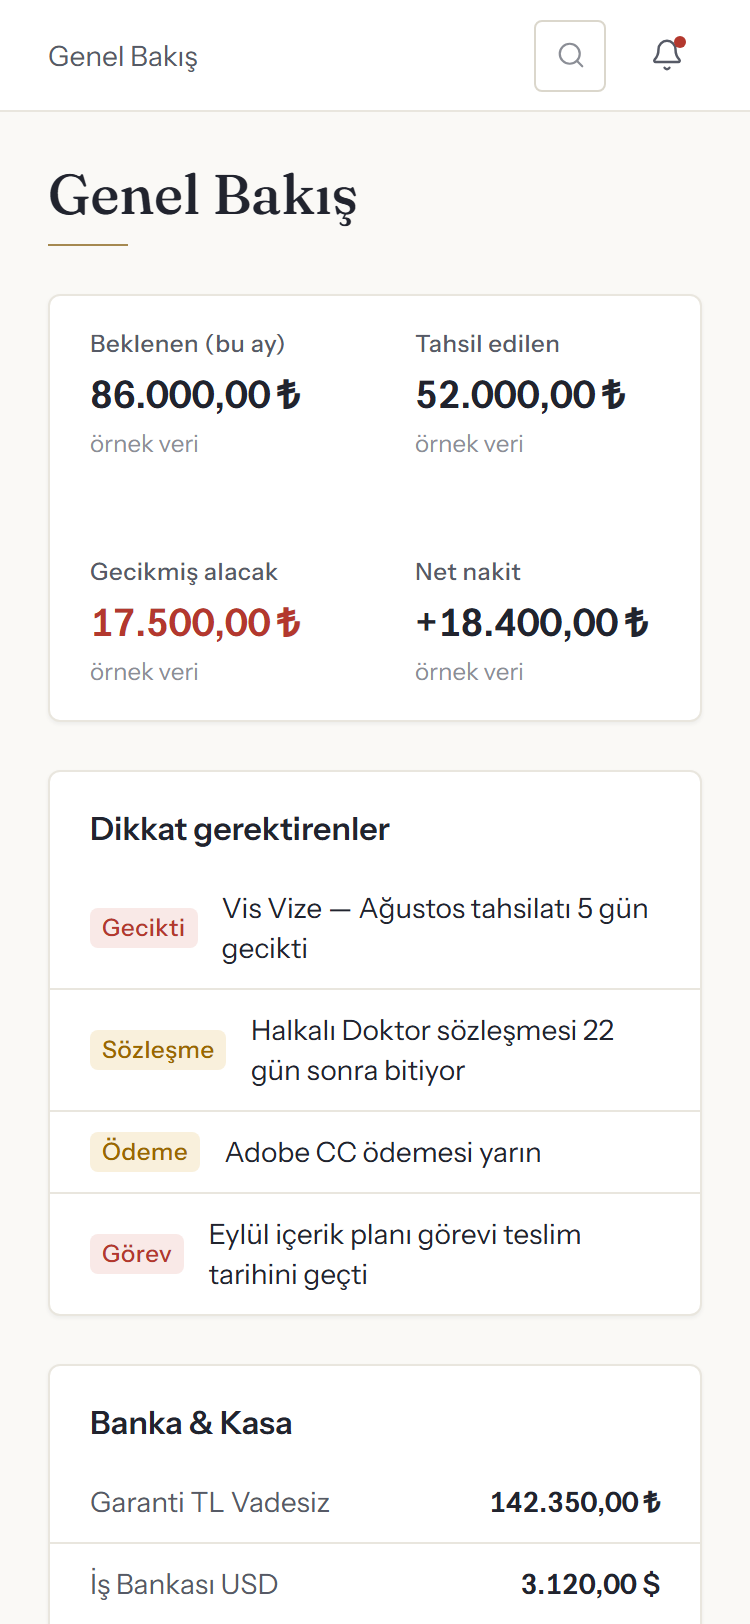
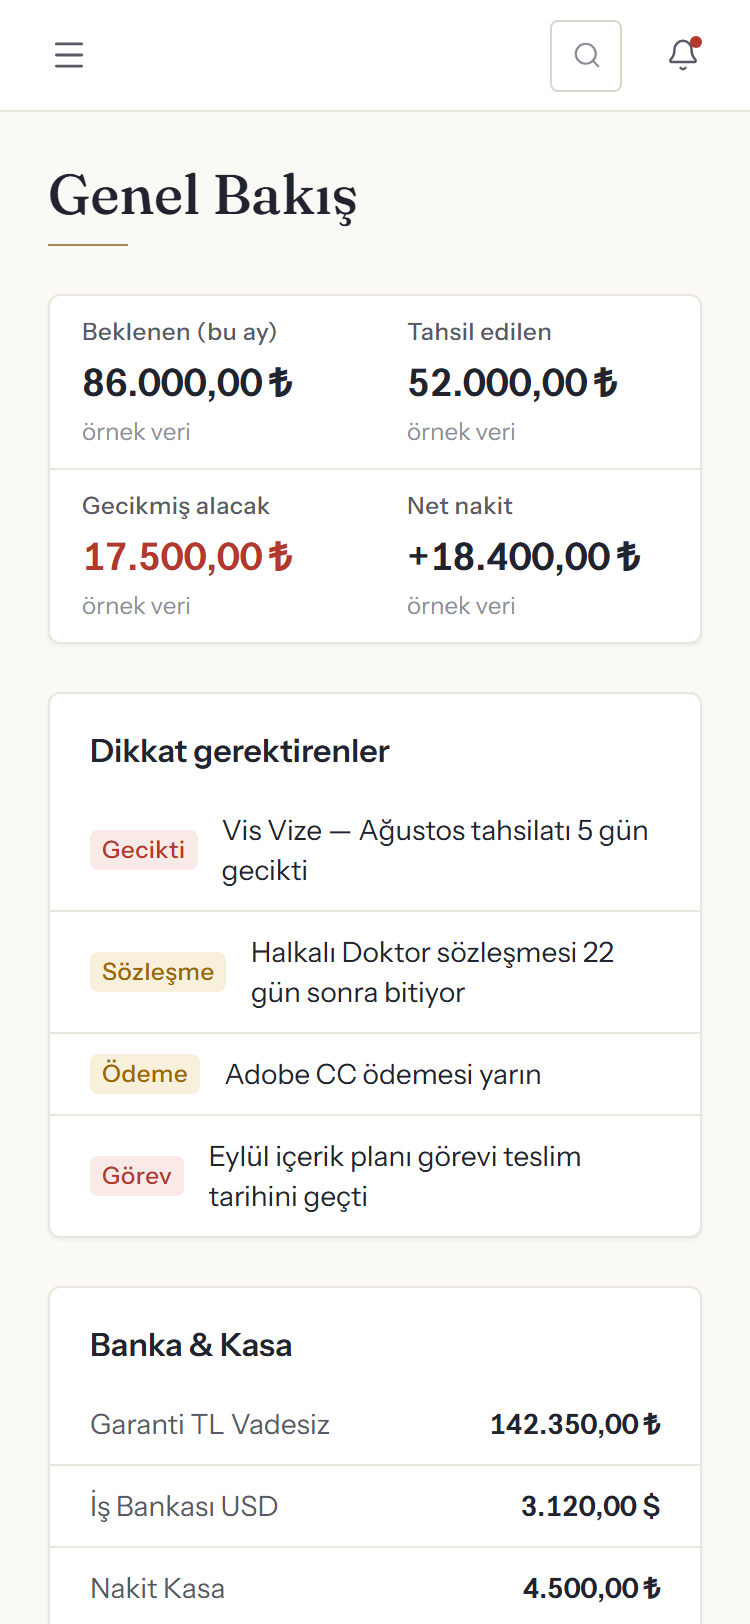
Mobil UI revizyonları ve Login/2FA wireframe'i
Sprint 0 görsel onayı sonrası istenen mobil düzeltmeler ve Sprint 1'in ilk
onay kapısı olan giriş akışı taslağı.

Mobil revizyonlar
- Metrik bloğu %18 kompaktlaştı (214px -> 175px): dikey padding düştü,
  satır arası boşluk yerine 1px yatay ayraç geldi. Tutar boyutu ve
  nowrap davranışı korundu.
- Mobil topbar artık [hamburger] ... [arama] [bildirim]; breadcrumb
  kaldırıldı (büyük sayfa başlığı zaten içerikte).
- "örnek veri" placeholder etiketleri yalnız development'ta render edilir.

Login / 2FA wireframe (/wireframe/giris)
- Statik görsel taslak: kimlik doğrulama mantığı veya Better Auth bağlantısı
  YOKTUR. Onaydan sonra gerçek /giris rotasına dönüşecek.
- Dört durum: giriş, giriş hatası (hangi alanın yanlış olduğu söylenmez),
  TOTP doğrulama, zorunlu 2FA kurulumu (kurtarma kodları indirilmeden
  tamamlanamaz).

Dokümantasyon
- 04: mobil drawer gereksinimleri Sprint 1'e, grafik placeholder'ının
  kaldırılması Sprint 6'ya bağlandı.
- 06: altın imza çizgisi kuralı netleşti (1px yükseklik, 32-48px genişlik,
  başlık boyunca asla uzanmaz).

diff --git a/src/app/wireframe/giris/page.tsx b/src/app/wireframe/giris/page.tsx
@@ -1,0 +1,212 @@
+/**
+ * GİRİŞ / 2FA — WIREFRAME (06 §16.1)
+ *
+ * Bu sayfa GÖRSEL ONAY İÇİN statik bir taslaktır. Kimlik doğrulama mantığı,
+ * form gönderimi veya Better Auth bağlantısı YOKTUR. Onaydan sonra Sprint 1'de
+ * gerçek /giris rotasına dönüşecektir.
+ *
+ * Dört durum tek sayfada üst üste gösterilir ki akış bir bakışta görülsün.
+ */
+import { Button } from "@/components/ui/button";
+
+function Shell({
+  step,
+  title,
+  children,
+}: {
+  step: string;
+  title: string;
+  children: React.ReactNode;
+}) {
+  return (
+    <div className="flex min-h-screen flex-col items-center justify-center bg-navy-900 px-4 py-10">
+      {/* Logo — altın imza (06 §3) */}
+      <div className="mb-6 flex items-baseline">
+        <span className="font-display text-2xl font-semibold tracking-wide text-gold-500">
+          PIRAVEL
+        </span>
+        <span className="ml-1.5 text-2xl font-light text-shell-muted">OS</span>
+      </div>
+
+      <div className="w-full max-w-[400px] rounded-md border border-line-200 bg-surface p-6 shadow-lg">
+        <div className="mb-1 text-xs font-medium tracking-widest text-ink-400">{step}</div>
+        <h1 className="mb-5 text-lg font-semibold text-ink-900">{title}</h1>
+        {children}
+      </div>
+
+      <p className="mt-5 text-xs text-shell-muted">
+        Piravel OS — yalnızca yetkili kullanıcılar içindir.
+      </p>
+    </div>
+  );
+}
+
+function Field({
+  label,
+  value,
+  type = "text",
+  hint,
+  error,
+}: {
+  label: string;
+  value?: string;
+  type?: string;
+  hint?: string;
+  error?: string;
+}) {
+  return (
+    <div className="mb-4">
+      <label className="mb-1 block text-[13px] text-ink-600">{label}</label>
+      <div
+        className={`flex h-9 items-center rounded-sm border bg-surface px-3 text-sm ${
+          error ? "border-danger" : "border-line-300"
+        } ${value ? "text-ink-900" : "text-ink-400"}`}
+      >
+        {type === "password" && value ? "••••••••••" : (value ?? "")}
+      </div>
+      {hint && <p className="mt-1 text-xs text-ink-400">{hint}</p>}
+      {error && <p className="mt-1 text-xs text-danger">{error}</p>}
+    </div>
+  );
+}
+
+/* ── 1. Giriş ── */
+function StepLogin() {
+  return (
+    <Shell step="ADIM 1 / 2" title="Giriş yap">
+      <Field label="E-posta" value="ahmetburak@piravel.com" />
+      <Field label="Şifre" type="password" value="x" />
+      <Button variant="primary" className="w-full">
+        Giriş yap
+      </Button>
+      <div className="mt-4 text-center">
+        <span className="cursor-pointer text-[13px] text-navy-500 underline underline-offset-2">
+          Şifremi unuttum
+        </span>
+      </div>
+    </Shell>
+  );
+}
+
+/* ── 1b. Giriş hatası — hangi alanın yanlış olduğu SÖYLENMEZ ── */
+function StepLoginError() {
+  return (
+    <Shell step="ADIM 1 / 2" title="Giriş yap">
+      <div className="mb-4 rounded-sm border-l-2 border-danger bg-danger-bg px-3 py-2 text-[13px] text-danger">
+        E-posta veya şifre hatalı. 3 deneme hakkınız kaldı.
+      </div>
+      <Field label="E-posta" value="ahmetburak@piravel.com" error=" " />
+      <Field label="Şifre" type="password" error=" " />
+      <Button variant="primary" className="w-full">
+        Giriş yap
+      </Button>
+      <div className="mt-4 text-center">
+        <span className="cursor-pointer text-[13px] text-navy-500 underline underline-offset-2">
+          Şifremi unuttum
+        </span>
+      </div>
+    </Shell>
+  );
+}
+
+/* ── 2. TOTP doğrulama ── */
+function StepTotp() {
+  return (
+    <Shell step="ADIM 2 / 2" title="Doğrulama kodu">
+      <p className="mb-4 text-[13px] text-ink-600">
+        Kimlik doğrulama uygulamanızdaki 6 haneli kodu girin.
+      </p>
+      <div className="mb-4 flex gap-2">
+        {["4", "8", "2", "1", "", ""].map((d, i) => (
+          <div
+            key={i}
+            className={`flex h-11 flex-1 items-center justify-center rounded-sm border text-lg font-semibold tnum ${
+              i === 4 ? "border-navy-500 ring-2 ring-navy-500/25" : "border-line-300"
+            } ${d ? "text-ink-900" : "text-ink-400"}`}
+          >
+            {d}
+          </div>
+        ))}
+      </div>
+      <Button variant="primary" className="w-full">
+        Doğrula
+      </Button>
+      <div className="mt-4 flex items-center justify-between text-[13px]">
+        <span className="cursor-pointer text-navy-500 underline underline-offset-2">
+          Kurtarma kodu kullan
+        </span>
+        <span className="cursor-pointer text-ink-400">Geri</span>
+      </div>
+    </Shell>
+  );
+}
+
+/* ── 3. Zorunlu 2FA kurulumu (SA + FIN) ── */
+function StepSetup() {
+  return (
+    <Shell step="GÜVENLİK KURULUMU" title="İki aşamalı doğrulama zorunlu">
+      <div className="mb-4 rounded-sm border-l-2 border-warning bg-warning-bg px-3 py-2 text-[13px] text-warning">
+        Süper Yönetici ve Finans rolleri için 2FA zorunludur. Kurulum
+        tamamlanmadan sisteme erişemezsiniz.
+      </div>
+
+      <div className="mb-4 flex gap-4">
+        {/* QR yer tutucu */}
+        <div className="flex h-[104px] w-[104px] shrink-0 items-center justify-center rounded-sm border border-line-300 bg-fill-100 text-[10px] text-ink-400">
+          QR kod
+        </div>
+        <div className="text-[13px] text-ink-600">
+          <p className="mb-2">
+            Google Authenticator veya benzeri bir uygulamayla QR kodu okutun.
+          </p>
+          <p className="text-ink-400">Elle giriş:</p>
+          <p className="font-mono text-xs text-ink-900">JBSW Y3DP EHPK 3PXP</p>
+        </div>
+      </div>
+
+      <Field label="Uygulamadaki 6 haneli kod" value="482 193" />
+
+      {/* Kurtarma kodları — indirmeden devam edilemez */}
+      <div className="mb-4 rounded-sm border border-line-200 bg-fill-100 p-3">
+        <div className="mb-2 text-[13px] font-semibold text-ink-900">Kurtarma kodları</div>
+        <div className="mb-2 grid grid-cols-2 gap-x-4 gap-y-1 font-mono text-xs text-ink-600">
+          <span>4f2a-91bd</span>
+          <span>7c05-3e8a</span>
+          <span>b13e-6d47</span>
+          <span>9a80-2fc1</span>
+          <span>e574-0ba9</span>
+          <span>2d6f-8471</span>
+        </div>
+        <p className="text-xs text-ink-400">
+          Telefonunuzu kaybederseniz tek erişim yolunuz budur. Güvenli bir yerde saklayın.
+        </p>
+        <Button variant="secondary" size="table" className="mt-2">
+          Kodları indir
+        </Button>
+      </div>
+
+      <label className="mb-4 flex items-start gap-2 text-[13px] text-ink-600">
+        <span className="mt-0.5 flex h-4 w-4 shrink-0 items-center justify-center rounded-sm border border-line-300 bg-surface" />
+        Kurtarma kodlarını indirdim ve güvenli bir yerde sakladım.
+      </label>
+
+      <Button variant="primary" className="w-full opacity-50">
+        Kurulumu tamamla
+      </Button>
+      <p className="mt-2 text-center text-xs text-ink-400">
+        Onay kutusu işaretlenene kadar pasiftir.
+      </p>
+    </Shell>
+  );
+}
+
+export default function LoginWireframePage() {
+  return (
+    <>
+      <StepLogin />
+      <StepLoginError />
+      <StepTotp />
+      <StepSetup />
+    </>
+  );
+}

diff --git a/src/app/page.tsx b/src/app/page.tsx
@@ -2,6 +2,10 @@ import { Badge } from "@/components/ui/badge";
 import { Card, CardContent, CardHeader, CardTitle } from "@/components/ui/card";
 import { Sidebar } from "@/components/layout/sidebar";
 import { Topbar } from "@/components/layout/topbar";
+import { cn } from "@/lib/utils";
+
+/** Placeholder işaretleri yalnız geliştirmede görünür; gerçek veri bağlanınca kalkar. */
+const isDev = process.env.NODE_ENV === "development";
 
 /**
  * Dashboard — DÜŞÜK DETAYLI TASLAK WIREFRAME (Sprint 0 çıktısı, 06 §16.2).
@@ -45,20 +49,31 @@ export default function DashboardPage() {
             <div className="mt-2 h-px w-10 bg-gold-500" />
           </div>
 
-          {/* Metrik şeridi — kart değil, çizgiyle ayrılmış sade sayılar */}
+          {/* Metrik şeridi — kart değil, çizgiyle ayrılmış sade sayılar.
+              Mobilde 2×2 ve kompakt: dikey padding düşer, satır boşluğu yerine
+              hafif yatay ayraç kullanılır. Tutar boyutu korunur. */}
           <Card className="mb-6">
-            <div className="grid grid-cols-4 divide-x divide-line-200 max-md:grid-cols-2 max-md:gap-y-4 max-md:divide-x-0">
-              {metrics.map((m) => (
-                <div key={m.label} className="px-5 py-4">
+            <div className="grid grid-cols-4 divide-x divide-line-200 max-md:grid-cols-2 max-md:divide-x-0">
+              {metrics.map((m, i) => (
+                <div
+                  key={m.label}
+                  className={cn(
+                    "px-5 py-4 max-md:px-4 max-md:py-2.5",
+                    i >= 2 && "max-md:border-t max-md:border-line-200",
+                  )}
+                >
                   <div className="text-xs font-medium tracking-wide text-ink-600">{m.label}</div>
                   {/* Tutarlar asla satır sarmaz (06 §10) */}
                   <div
-                    className={`mt-1 whitespace-nowrap text-[22px] leading-7 font-semibold tnum max-md:text-[19px] ${m.tone}`}
+                    className={cn(
+                      "mt-1 whitespace-nowrap text-[22px] leading-7 font-semibold tnum max-md:text-[19px]",
+                      m.tone,
+                    )}
                     data-amount
                   >
                     {m.value}
                   </div>
-                  <div className="mt-0.5 text-xs text-ink-400">örnek veri</div>
+                  {isDev && <div className="mt-0.5 text-xs text-ink-400">örnek veri</div>}
                 </div>
               ))}
             </div>

diff --git a/src/components/layout/topbar.tsx b/src/components/layout/topbar.tsx
@@ -1,16 +1,26 @@
 "use client";
 
-import { Bell, Search } from "lucide-react";
+import { Bell, Menu, Search } from "lucide-react";
 
 /**
  * Topbar (06 §8): 56px, beyaz, altta 1px çizgi.
- * Breadcrumb + global arama (⌘K — Sprint 1'de API'ye bağlanır, rol+kapsam
- * filtresi API seviyesindedir) + bildirim zili.
+ * Masaüstü : breadcrumb + global arama (⌘K) + bildirim zili
+ * Mobil    : [hamburger] — sağda [arama] [bildirim]
+ *            Breadcrumb gösterilmez; büyük sayfa başlığı zaten içerikte.
+ *            Hamburger, navigasyon drawer'ını açar (Sprint 1).
  */
 export function Topbar({ breadcrumb = "Genel Bakış" }: { breadcrumb?: string }) {
   return (
-    <header className="sticky top-0 z-10 flex h-14 shrink-0 items-center justify-between border-b border-line-200 bg-surface px-6">
-      <div className="text-sm text-ink-600">{breadcrumb}</div>
+    <header className="sticky top-0 z-10 flex h-14 shrink-0 items-center justify-between border-b border-line-200 bg-surface px-6 max-md:px-4">
+      {/* Mobil: hamburger (drawer Sprint 1'de bağlanır) */}
+      <button
+        type="button"
+        className="hidden h-9 w-9 items-center justify-center rounded-sm text-ink-600 hover:bg-fill-100 max-lg:flex"
+        aria-label="Menüyü aç"
+      >
+        <Menu size={19} strokeWidth={1.75} />
+      </button>
+      <div className="text-sm text-ink-600 max-lg:hidden">{breadcrumb}</div>
       <div className="flex items-center gap-3">
         <button
           type="button"

diff --git a/docs/04-sprint-plani.md b/docs/04-sprint-plani.md
@@ -64,6 +64,7 @@ En riskli kısım en önce: para modeli yanlışsa her şey çöker.
 | Kullanıcı yönetimi | users CRUD (SA), oturum listesi/iptal, audit köprüsü (login/logout/failed) |
 | Uygulama kabuğu | Layout, navigasyon, oturum durumu, TR yerelleştirme altyapısı |
 | **Navigasyon sistemi** | 06 §8'e göre sidebar/topbar'ın nihai görsel hali; aktif durum (altın vurgu), daraltma davranışı |
+| **Mobil navigasyon drawer'ı** | Lacivert overlay drawer; **rol bazlı menü filtresi** (görülmeyen modül hiç render edilmez); aktif menüde altın gösterge; dışarı tıklama + Escape ile kapanma; odak tuzağı ve klavye kontrolü (06 §15). Topbar hamburger'ı bu drawer'a bağlanır |
 | **Login/2FA ekranları** | 06 §16.1 wireframe'ine göre; marka kimliğinin ilk uygulanışı |
 | **Bileşen görsel standardı** | Buton, form, tablo, badge temel bileşenlerinin Piravel görünümüyle Storybook'suz basit bir `/styleguide` sayfasında sabitlenmesi |
 
@@ -165,6 +166,7 @@ MVP'nin kalbi — 2. bölüm. En yoğun test sprint'i.
 | Bildirim merkezi | Panel içi liste, okundu, `action_url` yönlendirmeleri |
 | E-posta | Günlük özet şablonu (yaklaşan/geciken tahsilat-ödeme-sözleşme) |
 | **Dashboard** | Tüm kartlar: beklenen/tahsil edilen/gecikmiş (yaş gruplu)/gider/net nakit/toplam bakiye/yaklaşanlar/süresi dolacak sözleşmeler/geciken işler; rol bazlı bölümler |
+| **Grafik placeholder'ının kaldırılması** | Sprint 0'daki kesikli çerçeveli yer tutucu **silinir**; yerine gerçek Recharts grafiği gelir ve 06 §12'deki düşük doygunluklu finans kurallarına uyar (ana seri `--navy-700`, alan dolgusu %6, gradient/glow/3D yok, yatay ızgara) |
 | Tasks modülü | Basit iş takibi CRUD + MEM kısıtlı güncelleme + geciken işler |
 
 **Testler:** job'ın gün içi ikinci çalıştırmada bildirim üretmemesi (dedupe); dashboard agregasyonlarının test verisiyle birebir doğruluğu; OPS/MEM dashboard yanıtında finans alanının hiç olmaması.
